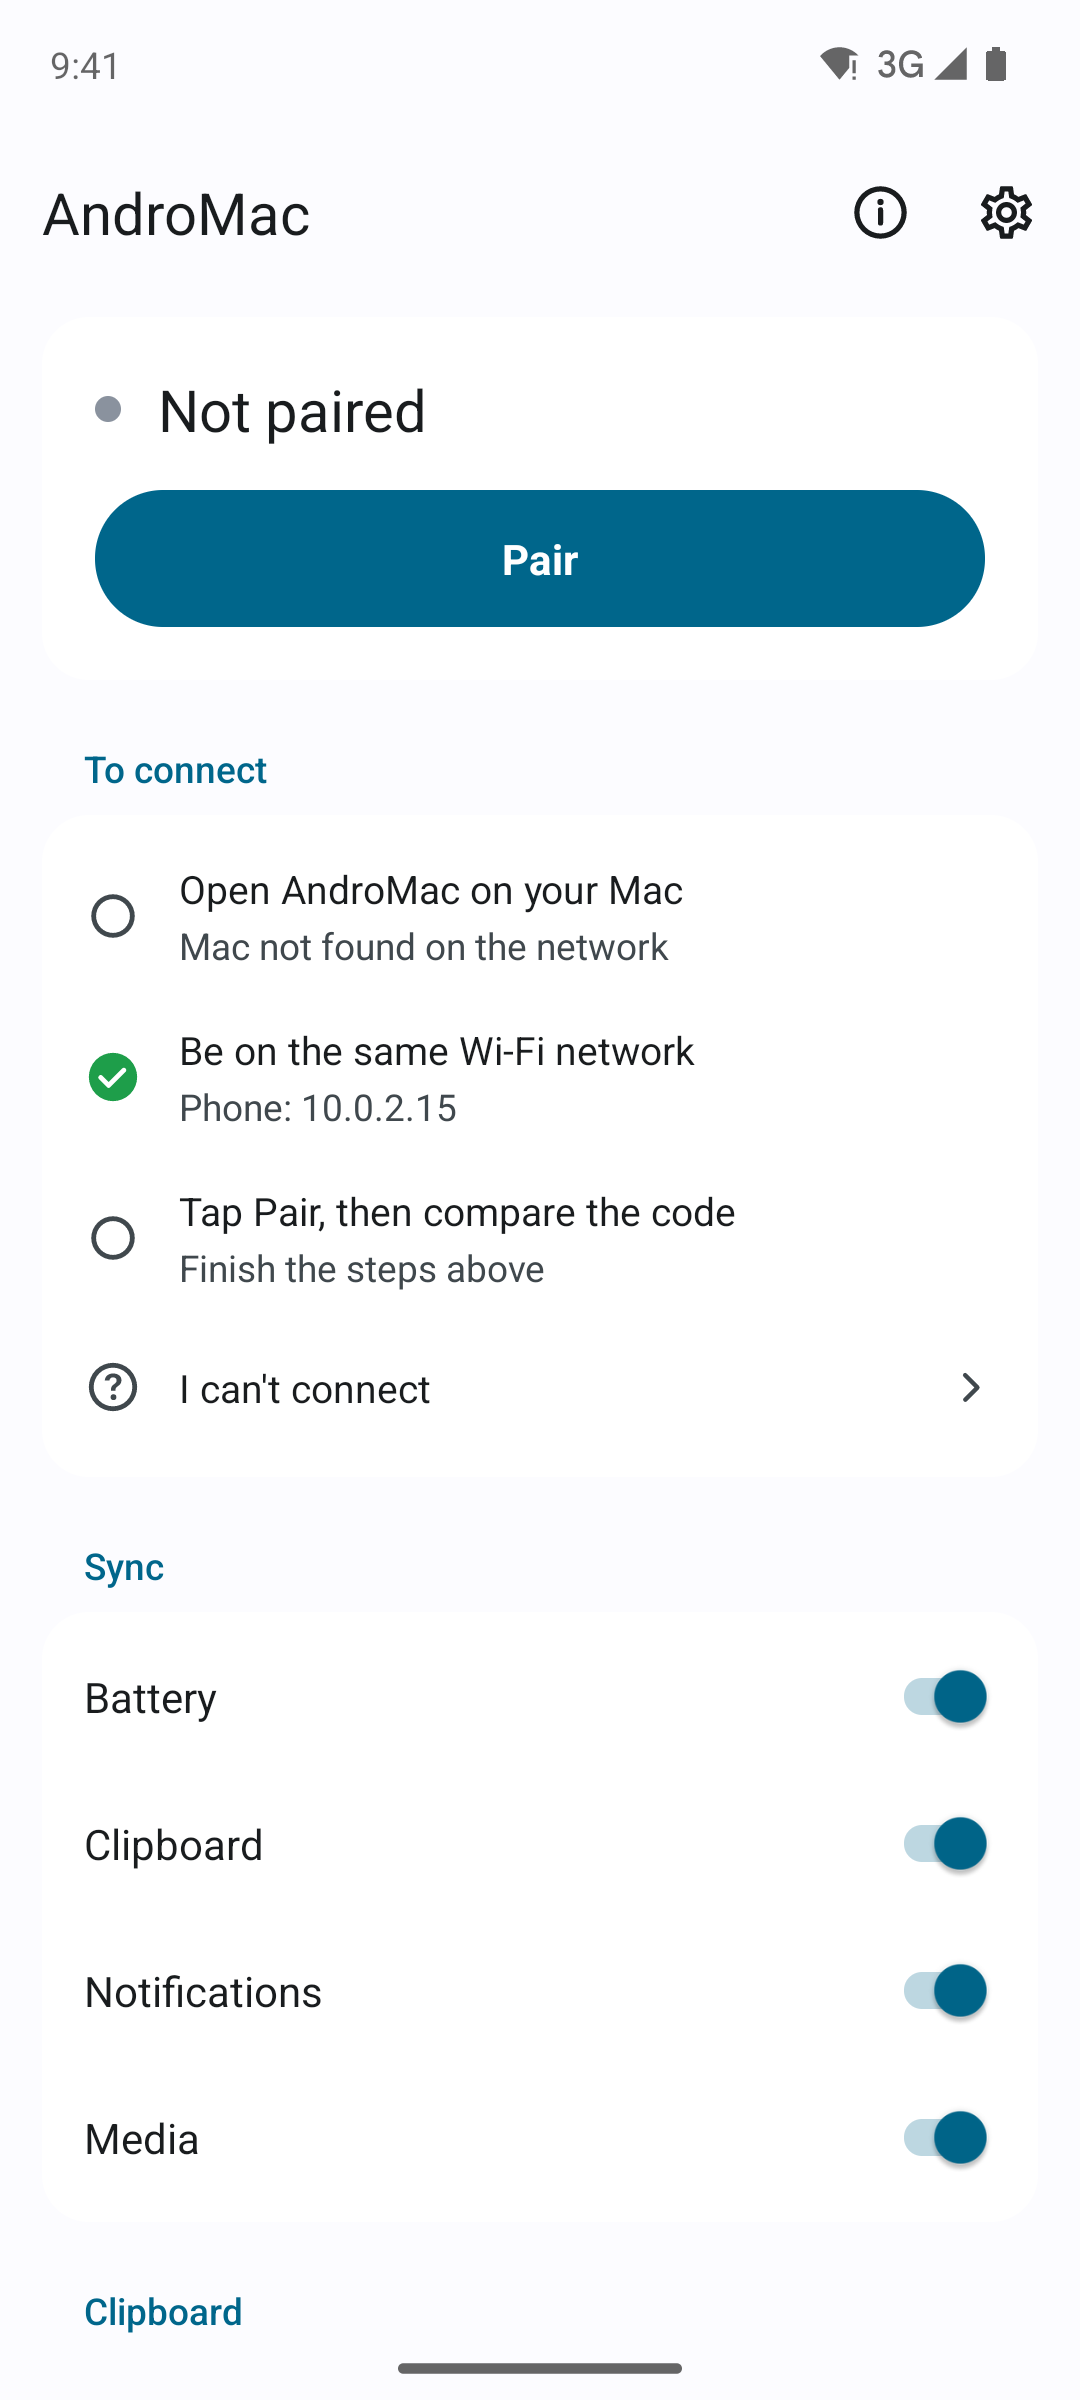
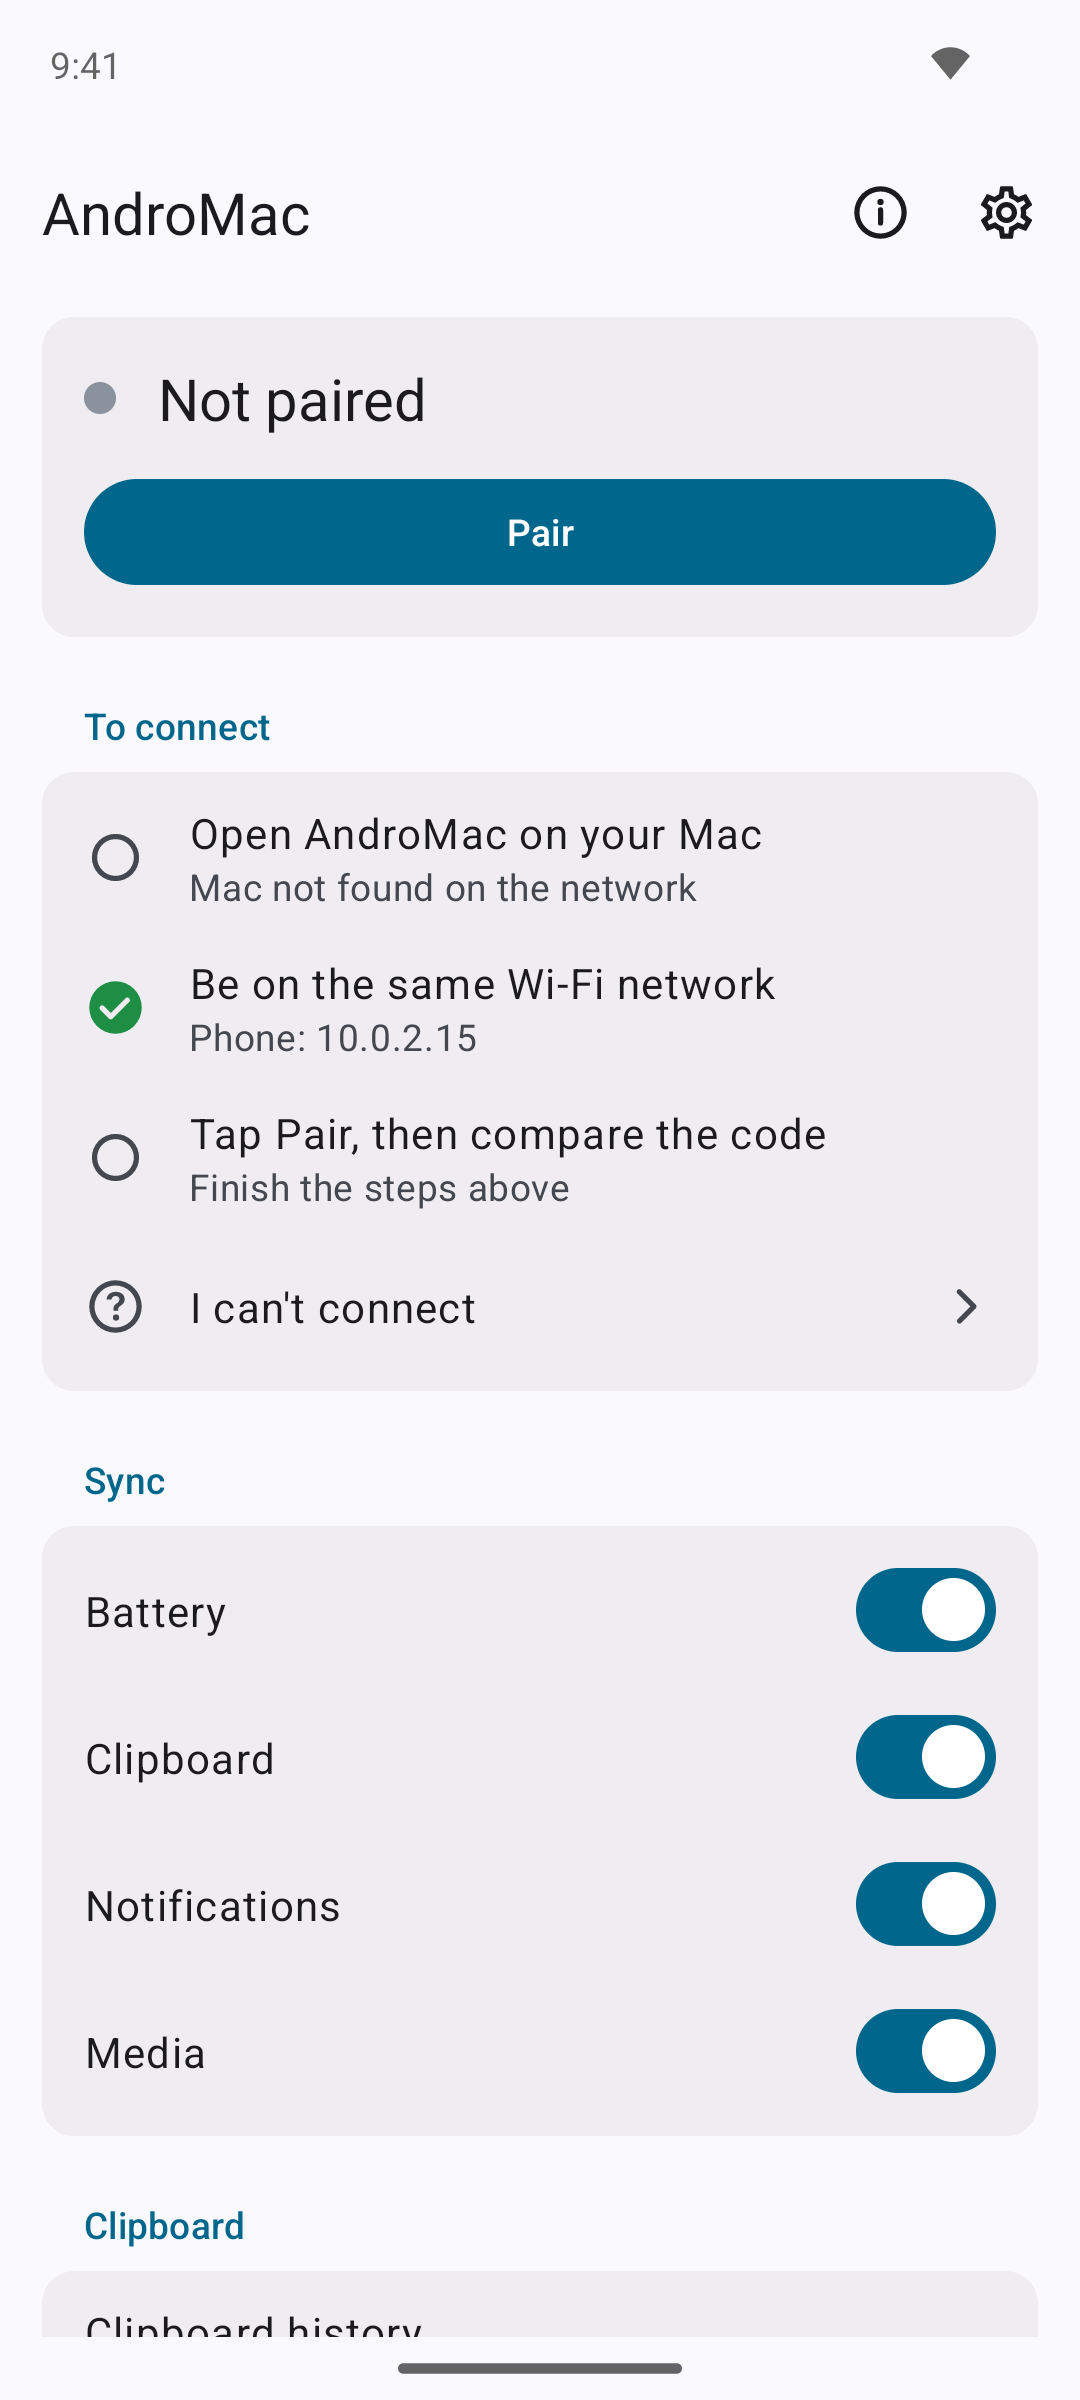
docs: new screenshots, notes for pictures, Material 3 and in-app updates

diff --git a/CHANGELOG.tr.md b/CHANGELOG.tr.md
@@ -24,6 +24,10 @@ derlemeler bunun yerine commit'lerini listeler.
   Mac hiçbir şey açık ya da çalışır değilken, telefon ise uygulamadan çıktığında ve yalnızca
   Wi-Fi'dayken kuruyor. Homebrew ile kurulan Mac `brew upgrade` ile güncelleniyor. **Beta
   güncellemeleri**, sürümler arasında yayınlanan test derlemelerini izliyor.
+- **Bildirimlerde görseller.** Sohbet mesajındaki fotoğraf, bildirimin büyük resmi ya da gönderenin
+  profil fotoğrafı bildirimle birlikte geliyor ve Mac'te uygulamanın ikonunun yanında küçük resim
+  olarak görünüyor. Yalnızca Tam ayarlı uygulamalar için, yalnızca görsel değiştiğinde ve en fazla
+  96 KB.
 - **Mac'ini seç.** Aynı ağda AndroMac çalıştıran birden fazla Mac varsa Eşleştir hangisi olduğunu
   soruyor.
 - **Android 17'ye hazır.** Android 17, bir uygulama ağındaki cihazlarla konuşmadan önce izin
@@ -35,6 +39,8 @@ derlemeler bunun yerine commit'lerini listeler.
   daha sıkı, denetimler de geri kalanı bir menüde toplayan tek sıra düğmede. macOS 26 ve sonrasında
   panel, düğmeler ve pencere Liquid Glass kullanıyor. Pencerede geçmişler ve bütün ayar sayfaları
   için tek bir kenar çubuğu var, ⌘, Ayarlar'ı açıyor.
+- **Material 3 bir telefon uygulaması.** Yeni renkler, kartlar, anahtarlar, düğmeler ve
+  diyaloglar; Android 12 ve sonrasında duvar kağıdının renklerini izliyor.
 - **Daha sade bir telefon uygulaması.** Ayarlar'ın üst çubuktaki düğmenin arkasında kendi ekranı
   var. Bağlantı rehberi eşleşince kayboluyor ve bilgi düğmesinin altında bir dokunuş uzakta kalıyor.
   Durum, bağlı olunan ya da bağlanılan Mac'in adını söylüyor; eşleştirme de telefonun gördüğü

diff --git a/CHANGELOG.md b/CHANGELOG.md
@@ -24,6 +24,10 @@ raised. Betas list their commits instead.
   once nothing is open or running, and the phone once you leave the app, on Wi-Fi only. A Mac
   installed with Homebrew updates through `brew upgrade`. **Beta updates** follows the test
   builds published between releases.
+- **Pictures in notifications.** A photo in a chat message, a notification's big picture or the
+  sender's avatar comes along with the notification and shows as its thumbnail on the Mac, next
+  to the app's own icon. Only for apps set to Full, only when the picture changes, and at most
+  96 KB.
 - **Pick your Mac.** With several Macs running AndroMac on the same network, Pair asks which one.
 - **Ready for Android 17.** Android 17 asks before an app may talk to devices on your network.
   AndroMac now asks for that permission and lists it as required on the Permissions card.
@@ -34,6 +38,8 @@ raised. Betas list their commits instead.
   tighter, and the controls sit in one row of buttons with a menu for the rest. On macOS 26 and
   later the panel, buttons and window use Liquid Glass. The window has a single sidebar for the
   histories and every settings page, and ⌘, opens Settings.
+- **A Material 3 phone app.** New colours, cards, switches, buttons and dialogs, following your
+  wallpaper's colours on Android 12 and later.
 - **A simpler phone app.** Settings has its own screen behind the button in the top bar. The
   connection guide disappears once you are paired and stays one tap away under the info button.
   The status names the Mac you are connected or connecting to, and pairing shows the Macs the

diff --git a/README.md b/README.md
@@ -19,8 +19,8 @@
 
 <table>
 <tr>
-<td width="60%" align="center"><img src="docs/images/macos-panel.png" alt="The AndroMac menu bar panel on macOS" width="100%"></td>
-<td width="40%" align="center"><img src="docs/images/android-home.png" alt="The AndroMac main screen on Android" width="100%"></td>
+<td align="center" valign="top"><img src="docs/images/macos-panel.png" alt="The AndroMac menu bar panel on macOS" width="360"></td>
+<td align="center" valign="top"><img src="docs/images/android-home.png" alt="The AndroMac main screen on Android" width="276"></td>
 </tr>
 </table>
 

diff --git a/README.tr.md b/README.tr.md
@@ -19,8 +19,8 @@
 
 <table>
 <tr>
-<td width="60%" align="center"><img src="docs/images/macos-panel.png" alt="macOS'ta AndroMac menü çubuğu paneli" width="100%"></td>
-<td width="40%" align="center"><img src="docs/images/android-home.png" alt="Android'de AndroMac ana ekranı" width="100%"></td>
+<td align="center" valign="top"><img src="docs/images/macos-panel.png" alt="macOS'ta AndroMac menü çubuğu paneli" width="360"></td>
+<td align="center" valign="top"><img src="docs/images/android-home.png" alt="Android'de AndroMac ana ekranı" width="276"></td>
 </tr>
 </table>
 
